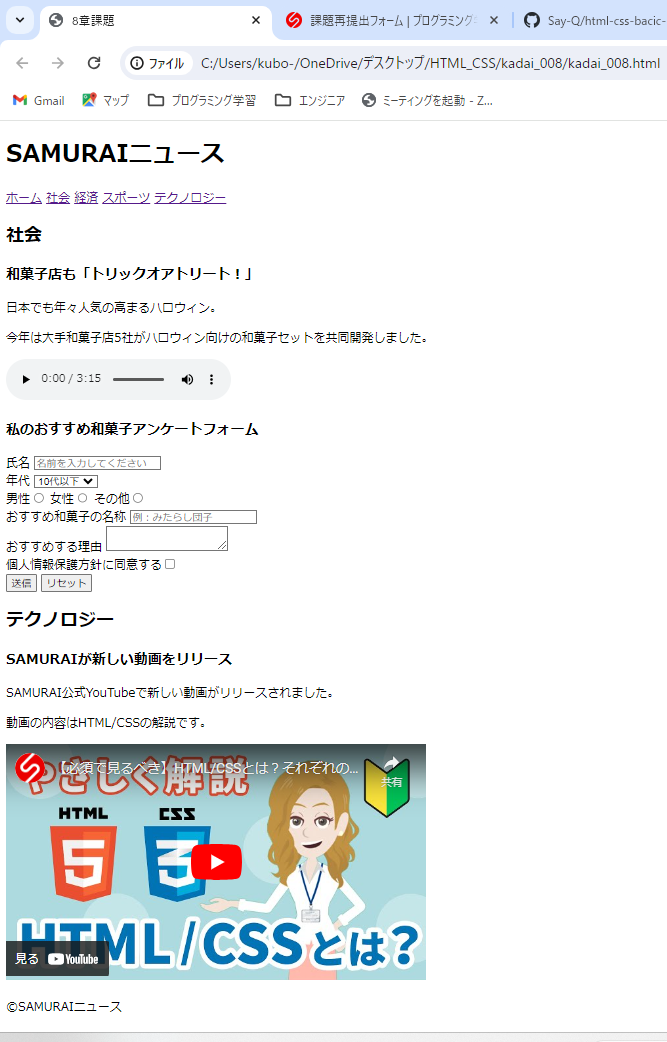
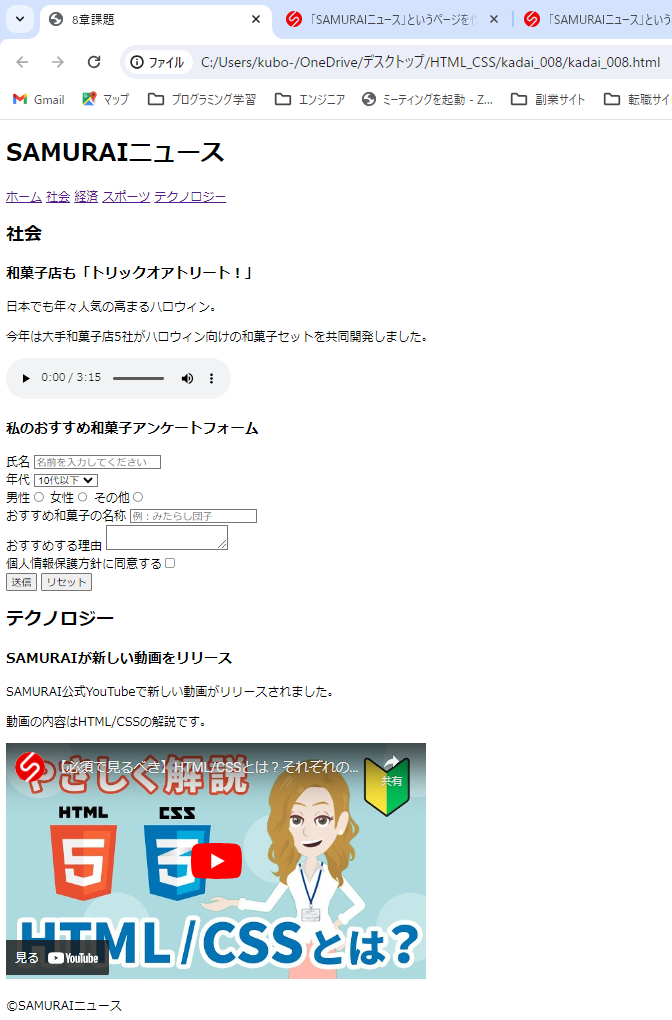
kadai_008.htmlの中身を修正

Changed region(s): [[0.0, 0.3647, 0.6597, 1.0], [0.0, 0.0, 1.0, 0.3343], [0.06, 0.0, 0.1799, 0.0304]]

diff --git a/kadai_008/kadai_008.html b/kadai_008/kadai_008.html
@@ -2,9 +2,8 @@
 <html>
     <head>
         <title>8章課題</title>
-        <meta name="description" content="このページは8章の課題です。"</header>
+        <meta name="description" content="このページは8章の課題です。">
         <meta charset="utf-8">
-        </nav>
     </head>
     <body>
         <header>
